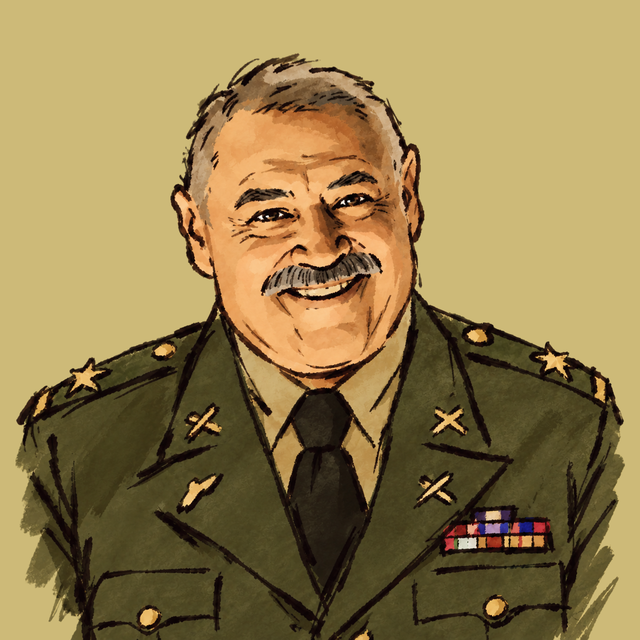
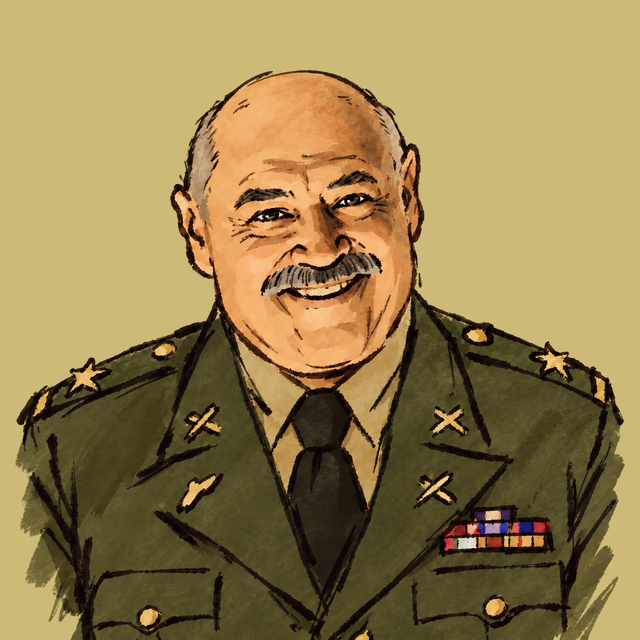
Carville has a bare crown and Hill has looser facial linework

diff --git a/workers/publisher/renderer-manifest.generated.ts b/workers/publisher/renderer-manifest.generated.ts
@@ -4,10 +4,10 @@
 // sharp version), so this file is reproducible on any machine (wayfinder #269).
 export const rendererManifest = {
   schemaVersion: 2,
-  rendererIdentity: 'faction-sheet/sha256:1a861c6c40eacf3e419e125c48bff705afdb798f51a6870ef0e74d8b5a6d6556',
[1 lines of base64/hex data omitted]
+  rendererIdentity: 'faction-sheet/sha256:da6073959bb47e1a2bb2220a697be2f343498a8580a387a86195a25244cce4c6',
[1 lines of base64/hex data omitted]
   components: {
[5 lines of base64/hex data omitted]
